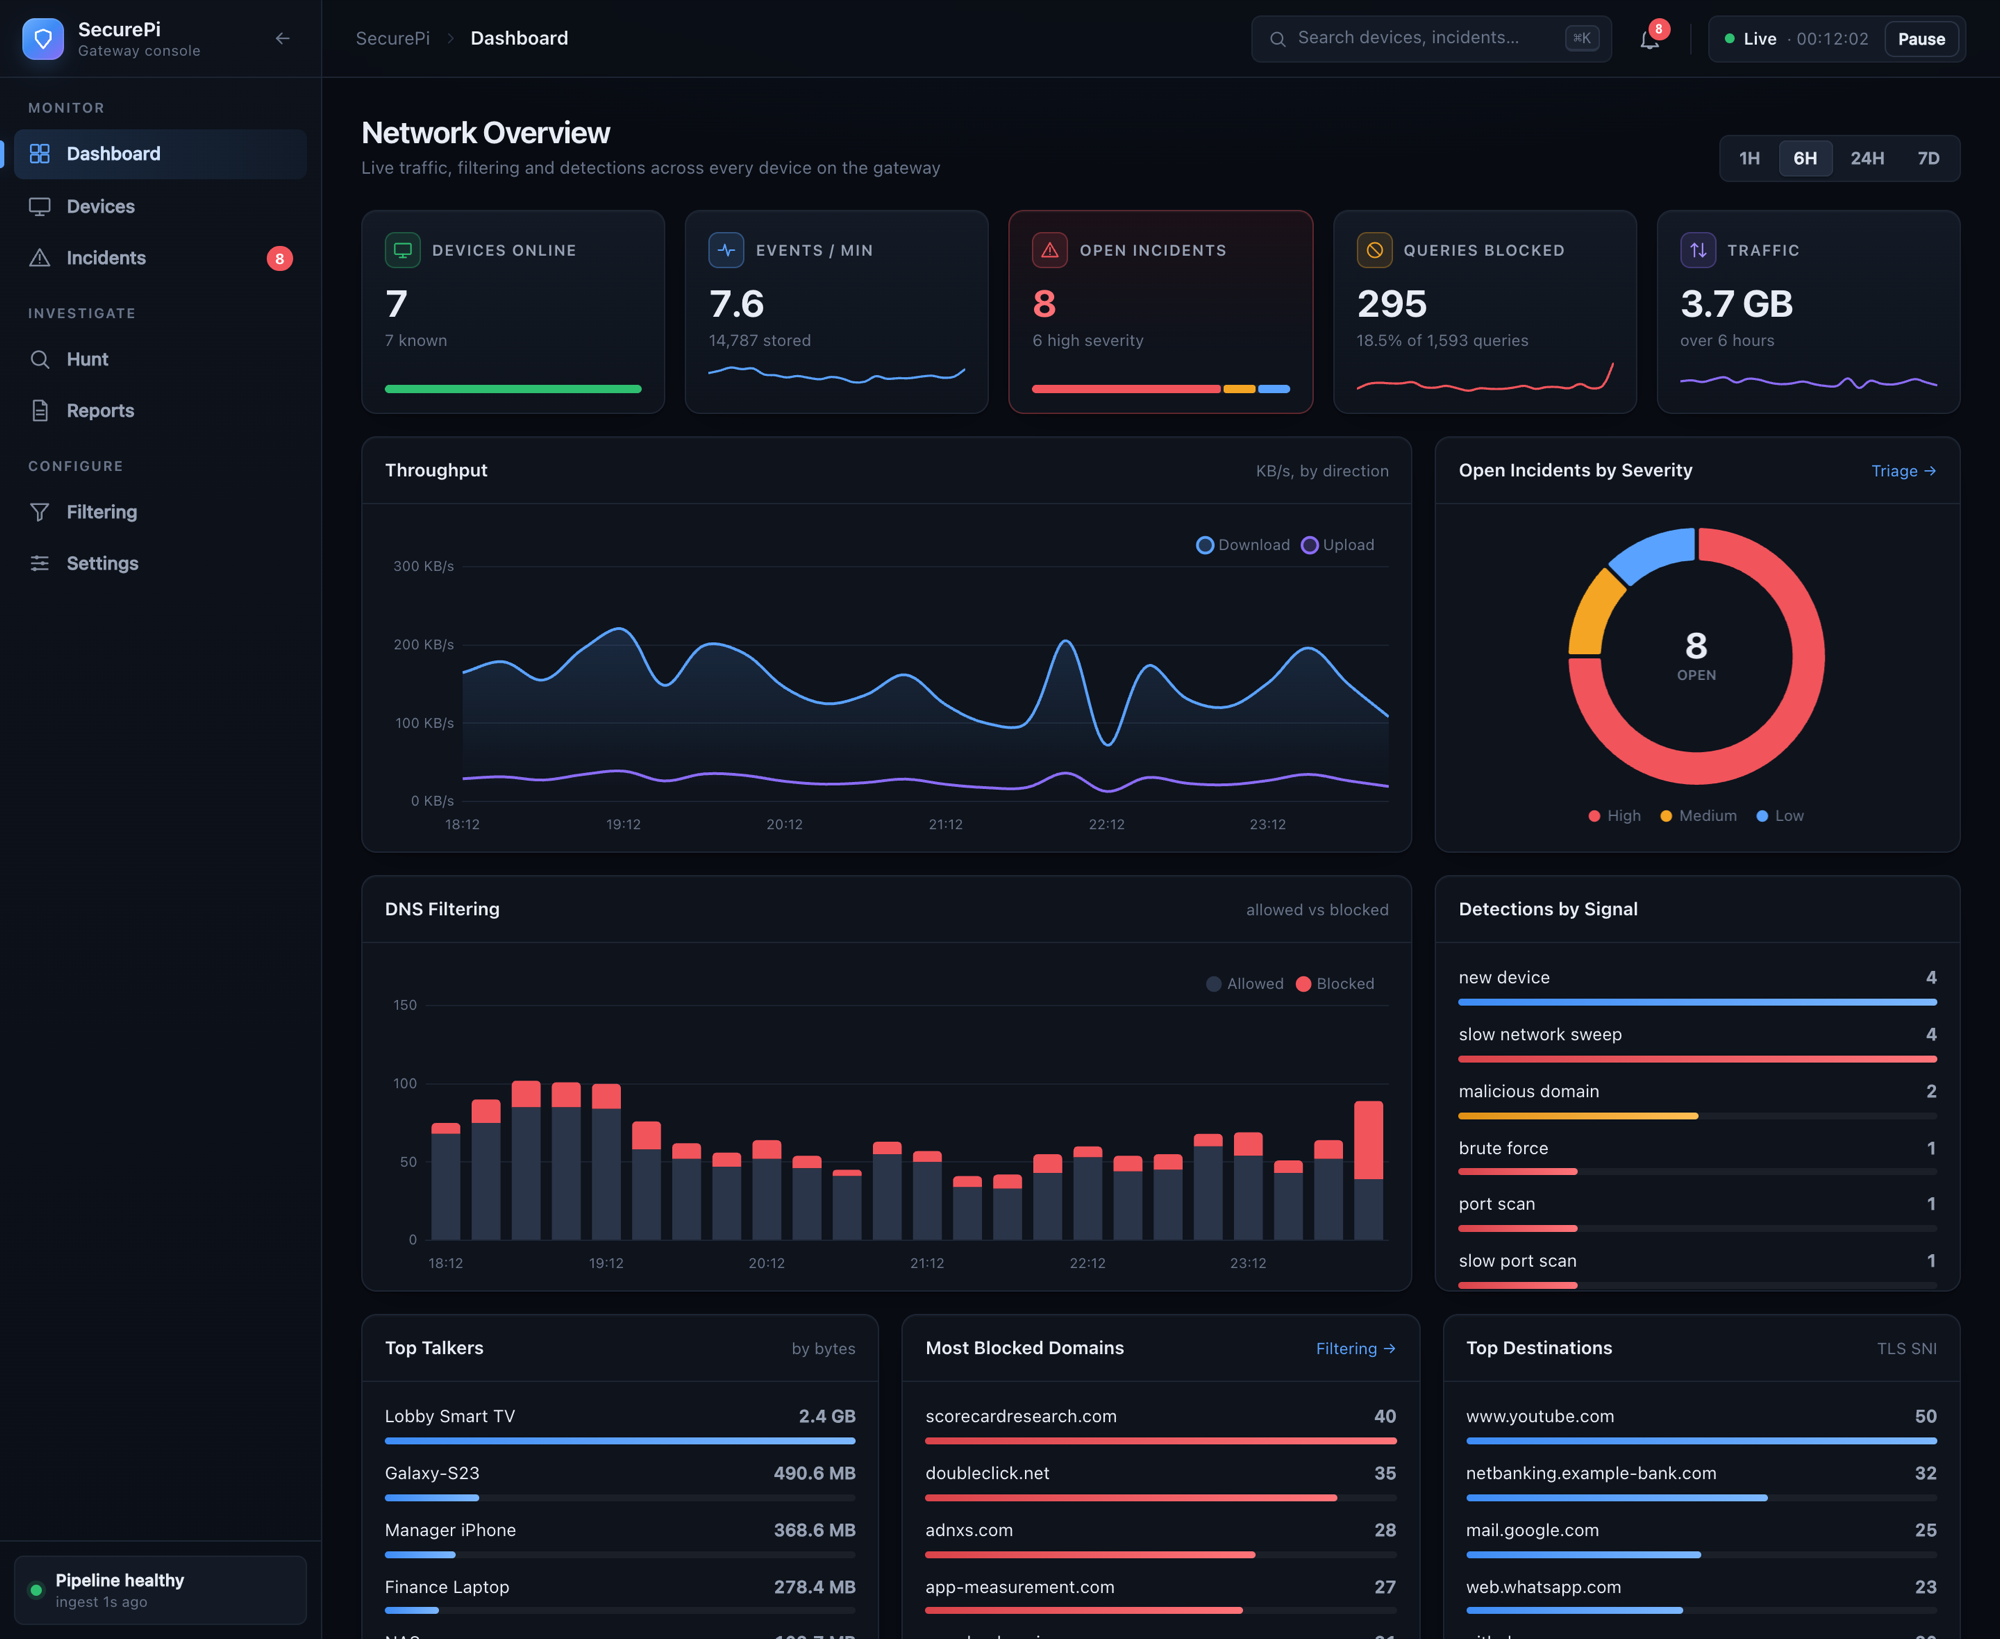
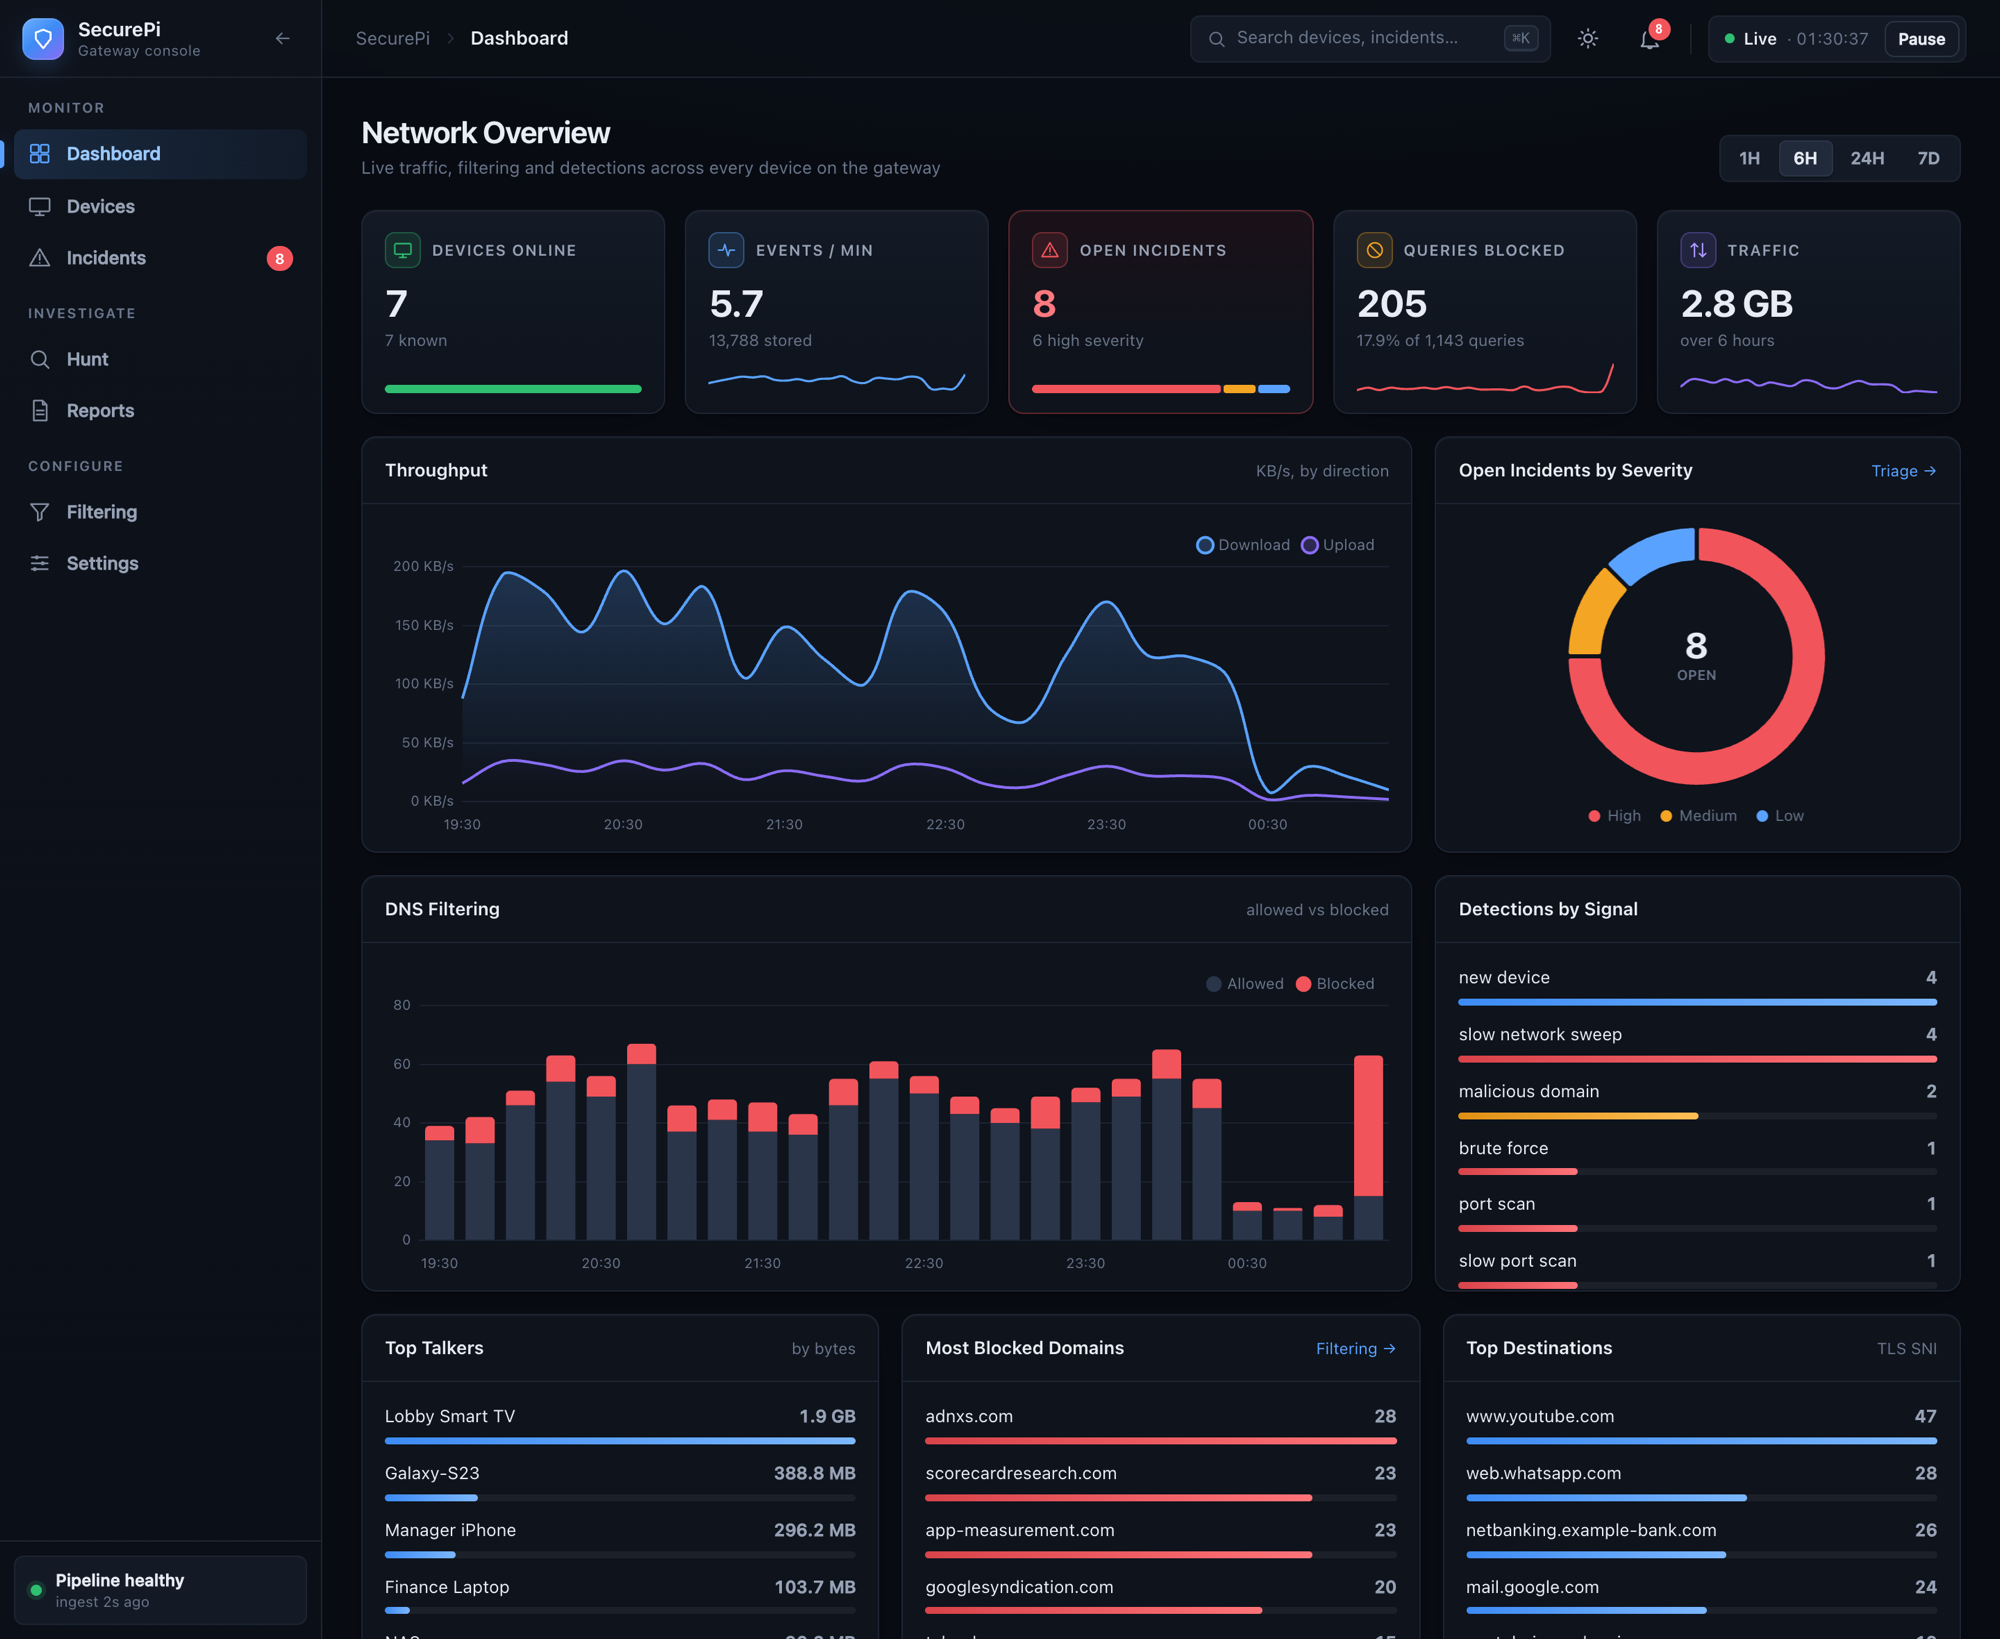
Docs: console redesign handoff notes and refreshed README screenshots
- NEXT-SESSION.md: new "Console redesign" section - commits, bugs fixed,
  and what future front-end work must respect (colour tokens, the chart
  palette duplicated in app.js, click forwarding during view transitions,
  backwards-only row animation fill, keyed live lists, reduced motion,
  browser support), plus the stale-demo-server gotcha and one follow-up.
- README: all console screenshots regenerated from docs/demo against a
  fresh synthetic database; captions updated for the redesigned pages; new
  light-theme dashboard capture; feature list mentions the theme switch
  and motion.
- docs/demo/shoot.js: sets the theme per capture (localStorage is shared
  across pages in one browser) and adds the dashboard-light capture.

Claude-Session: https://claude.ai/code/session_01DYYzoDSvL5Y4QxyZnPtXsy

diff --git a/docs/demo/shoot.js b/docs/demo/shoot.js
@@ -21,6 +21,7 @@ const PAGES = [
   { name: 'filtering', path: '/filtering', wait: 3500, h: 900 },
   { name: 'settings', path: '/settings', wait: 2500, h: 700 },
   { name: 'mobile', path: '/', wait: 3500, mobile: true },
+  { name: 'dashboard-light', path: '/', wait: 3500, h: 1180, theme: 'light' },
 ];
 
 (async () => {
@@ -32,6 +33,9 @@ const PAGES = [
   for (const p of PAGES) {
     if (only.length && !only.includes(p.name)) continue;
     const page = await browser.newPage();
+    // The console remembers its theme in localStorage, which every page in
+    // this browser shares - so set it explicitly for each capture.
+    await page.evaluateOnNewDocument(t => { try { localStorage.setItem('sp.theme', t); } catch (e) {} }, p.theme || 'dark');
     await page.authenticate({ username: 'securepi', password: 'demo' });
     if (p.mobile) await page.setViewport({ width: 390, height: 844, deviceScaleFactor: 2, isMobile: true });
     else await page.setViewport({ width: 1440, height: p.h || 960, deviceScaleFactor: 2 });

diff --git a/README.md b/README.md
@@ -90,14 +90,14 @@ audit trail.
 
 <p align="center">
   <img src="docs/assets/screenshots/dashboard.png" alt="Network overview dashboard" width="100%">
-  <br><sub><b>Network overview</b>: KPI tiles with sparklines, throughput, DNS allowed vs blocked, severity breakdown, detections by signal, top talkers, and blocked and contacted domains.</sub>
+  <br><sub><b>Network overview</b>: KPI tiles with sparklines and meters, throughput, DNS allowed vs blocked, a severity donut, detections by signal, top talkers, blocked and contacted domains, live event stream, weekly activity heatmap and pipeline health.</sub>
 </p>
 
 <table>
 <tr>
 <td width="50%" valign="top">
 <img src="docs/assets/screenshots/incident-detail.png" alt="Incident workbench">
-<p align="center"><sub><b>Incident workbench</b>: what was detected and why, the MITRE ATT&CK tag, a playbook, the evidence chain, related incidents and quarantine.</sub></p>
+<p align="center"><sub><b>Incident workbench</b>: a summary header with severity, status, MITRE ATT&CK tag and one-click triage and quarantine, then what was detected and why, a three-step playbook, related incidents and the evidence chain.</sub></p>
 </td>
 <td width="50%" valign="top">
 <img src="docs/assets/screenshots/incidents.png" alt="Incident queue">
@@ -107,11 +107,11 @@ audit trail.
 <tr>
 <td width="50%" valign="top">
 <img src="docs/assets/screenshots/device-detail.png" alt="Device detail">
-<p align="center"><sub><b>Device profile</b>: traffic history, identity kept across MAC randomization, fingerprint (type, vendor, OS and confidence), behavioural baseline and risk score.</sub></p>
+<p align="center"><sub><b>Device profile</b>: traffic history, identity kept across MAC randomization, fingerprint (type, vendor, OS and confidence), behavioural baseline, risk score, and a Controls panel for filtering, quarantine and Tier 2 enrollment.</sub></p>
 </td>
 <td width="50%" valign="top">
 <img src="docs/assets/screenshots/filtering.png" alt="Filtering">
-<p align="center"><sub><b>Filtering</b>: "why is this blocked?" tester, ad-blocking analytics, Tier 2 HTTPS ad-removal counters, and top blocked domains and devices.</sub></p>
+<p align="center"><sub><b>Filtering</b>: section jump links, a "why is this blocked?" tester, ad-blocking analytics, resolver quality, Tier 2 HTTPS ad-removal counters and rules, and top blocked domains and devices.</sub></p>
 </td>
 </tr>
 <tr>
@@ -121,7 +121,13 @@ audit trail.
 </td>
 <td width="50%" valign="top" align="center">
 <img src="docs/assets/screenshots/mobile.png" alt="Mobile layout" width="46%">
-<p align="center"><sub><b>Responsive</b>: every page is usable at phone width.</sub></p>
+<p align="center"><sub><b>Responsive</b>: every page is usable at phone width, with a bottom tab bar in place of the sidebar.</sub></p>
+</td>
+</tr>
+<tr>
+<td colspan="2" valign="top">
+<img src="docs/assets/screenshots/dashboard-light.png" alt="Dashboard in the light theme">
+<p align="center"><sub><b>Light and dark themes</b>: switch from the topbar or the command palette. The new theme radiates out from the toggle, charts included, and each browser remembers its choice.</sub></p>
 </td>
 </tr>
 </table>
@@ -133,7 +139,8 @@ audit trail.
 
 - **Hunt / explorer**: search flows, DNS and TLS by device, IP, domain, port and time range. Pivot on any value, see top talkers and protocol breakdowns, and save searches.
 - **Weekly report**: incidents by ATT&CK tactic, riskiest devices, ad-blocking summary (block rate, tracker companies, estimated savings) and platform health, for any past week, printable to PDF.
-- **Command palette** (<kbd>⌘</kbd>/<kbd>Ctrl</kbd> + <kbd>K</kbd>), live notifications, a pause/resume live mode, and a pipeline-health panel showing ingest and each signal's last run.
+- **Command palette** (<kbd>⌘</kbd>/<kbd>Ctrl</kbd> + <kbd>K</kbd>) for pages, devices, incidents and the theme switch, live notifications, a pause/resume live mode, and a pipeline-health panel showing ingest and each signal's last run.
+- **Motion that carries meaning**: pages crossfade under a fixed sidebar and topbar, range and filter controls slide to the chosen option, bars glide to new values on each live refresh, and newly arrived incidents get a brief highlight. All of it is switched off when the OS asks for reduced motion.
 - **Per-device policy**: DNS filtering on or off, native-tracker blocklist profiles, time-limited allow and block rules ("unbreak this site"), and Tier 2 enrollment with auto-expiry.
 - **Blocklist health**: time since each list last synced, a stale warning after 48 hours, and each list's share of observed blocks.
 - **Audit log**: every console action that changes something (status changes, rules, settings, quarantine, enrollment) is recorded with who did it and when.

diff --git a/NEXT-SESSION.md b/NEXT-SESSION.md
@@ -115,6 +115,70 @@ ip link del br-test`, then rerun the script, then `sudo systemctl restart
 suricata`) was necessary once, live, this session. Shouldn't be needed again
 unless the harness script changes further.
 
+### Console redesign (14–15 September 2026, separate session)
+
+Front-end only: `app/static/app.css`, `app/static/app.js` and
+`app/templates/*.html`. No API routes, template context or backend
+behaviour changed, and the test suite is still **206**, all passing. Every
+step was deployed with `make deploy`, and all 12 front-end files were
+checksum-verified on the gateway afterwards.
+
+| Commit | What |
+|---|---|
+| `bc43430` | Visual overhaul: design tokens, grouped sidebar + breadcrumbs, KPI icons/meters, incident and device header cards, device Controls card, playbook as three steps, phone bottom tab bar |
+| `090e975` | Dark / light theme toggle (topbar button + ⌘K entry, saved per browser in `localStorage` key `sp.theme`, dark is the default) |
+| `52942a6` | Theme switch radiates out from the toggle (View Transitions API, crossfade fallback) |
+| `4732a88` | Motion system: page-to-page transitions, sliding segmented-control indicator, popover/palette exit animations, new-row highlights, bars and meters that glide on live refresh |
+| (this commit) | README screenshots regenerated, including a new light-theme dashboard capture |
+
+**Real bugs fixed along the way** (all were present before the redesign):
+- Bar-list fills (Top Talkers, Detections by Signal, …) never rendered:
+  the fill was an inline `<span>`, which ignores width.
+- Audit log, weekly report, Hunt saved searches, Related Incidents and the
+  status timeline all reused the dashboard's 4-column event grid and
+  overlapped or truncated.
+- The incidents table overflowed at 1440px, hiding Evidence and Last seen.
+
+**Things a future change needs to know:**
+- **Colors are tokens.** A new component should use the CSS variables, never
+  hex values, or it won't follow the light theme. The light palette is only
+  token overrides under `:root[data-theme="light"]`.
+- **Chart colors live in two places.** Chart.js draws on a canvas and can't
+  read CSS variables, so `CHART_PALETTES` in `app.js` duplicates the chart
+  roles. Keep it in step with `app.css`. On a theme switch every chart is
+  rebuilt from its own config (`restyleCharts`), because an in-place
+  `chart.update()` leaves bar and doughnut segments in the old colors
+  (Chart.js caches them).
+- **Clicks during a view transition.** Chromium sends every click to `<html>`
+  while one runs, and CSS `pointer-events` can't change that. `app.js`
+  finishes the transition and re-dispatches the click to the element under
+  the pointer. Don't remove that listener, or quick double-clicks and
+  mid-transition navigation silently break.
+- **Row animations use `animation-fill-mode: backwards` on purpose.** A
+  lingering transform gives each table row its own stacking context and
+  traps the incident row menu under the next row.
+- **Lists that refresh live are keyed** (`data-key`, `markNewRows`,
+  `renderBarList`), so a 5-second refresh only animates what actually
+  changed. A new list that re-renders on the live tick should follow the
+  same pattern rather than rebuilding with `innerHTML` and animating
+  everything.
+- **Motion is off under `prefers-reduced-motion`**: page transitions,
+  smooth scroll and the theme reveal all check it.
+- **Browser support**: page transitions need Chrome/Edge/Brave 126+ or
+  Safari 18.2+; exit animations need Chrome 117+ or Safari 18. Older
+  browsers fall back to instant changes. Only Chromium (Brave) was tested in
+  automation — Safari support is from its documentation, not verified here.
+
+**Regenerating the README screenshots** (`docs/demo/README.md` has the full
+steps): run `seed.py` and then **restart** `serve.py`. A demo server left
+running from earlier keeps the old, deleted database file open and shows
+hours-stale data (empty charts), even after a fresh seed.
+
+**Small follow-up noticed, not done:** the Related Incidents card footer on
+the incident page still says cross-signal campaign correlation is
+"not-yet-built". Step 2.8 built it, so that copy in
+`app/templates/incident_detail.html` is now out of date.
+
 ### Recommended next step: Stage 3 (Hardening & reliability)
 
 Session authentication, TLS on the console, privilege separation (the web

diff --git a/docs/demo/README.md b/docs/demo/README.md
@@ -9,7 +9,7 @@ browsing.
 |---|---|
 | `seed.py` | Builds `securepi.db`: invented devices on `10.10.0.0/24`, 36 hours of flows, DNS, TLS and Tier 2 events, 9 days of hourly baselines, and a scripted attack (a new `kali` host port-scanning and SSH brute-forcing the NAS). The live incidents are raised by running the project's own `correlation.run_all()` over that data — not typed in by hand. |
 | `serve.py` | Starts the console on `http://127.0.0.1:8765` (user `securepi`, password `demo`). Things that only exist on the gateway — AdGuard Home's API, nftables sets, the inspection CA — are replaced with small in-memory stand-ins. Also runs the same 15-second engine loop the gateway does. |
-| `shoot.js` | Opens each page in a headless Chromium browser (Chrome, Brave or Chromium) and saves a 2× screenshot. |
+| `shoot.js` | Opens each page in a headless Chromium browser (Chrome, Brave or Chromium) and saves a 2× screenshot - in the dark theme, plus one dashboard capture in the light theme. |
 
 ```bash
 cd docs/demo
